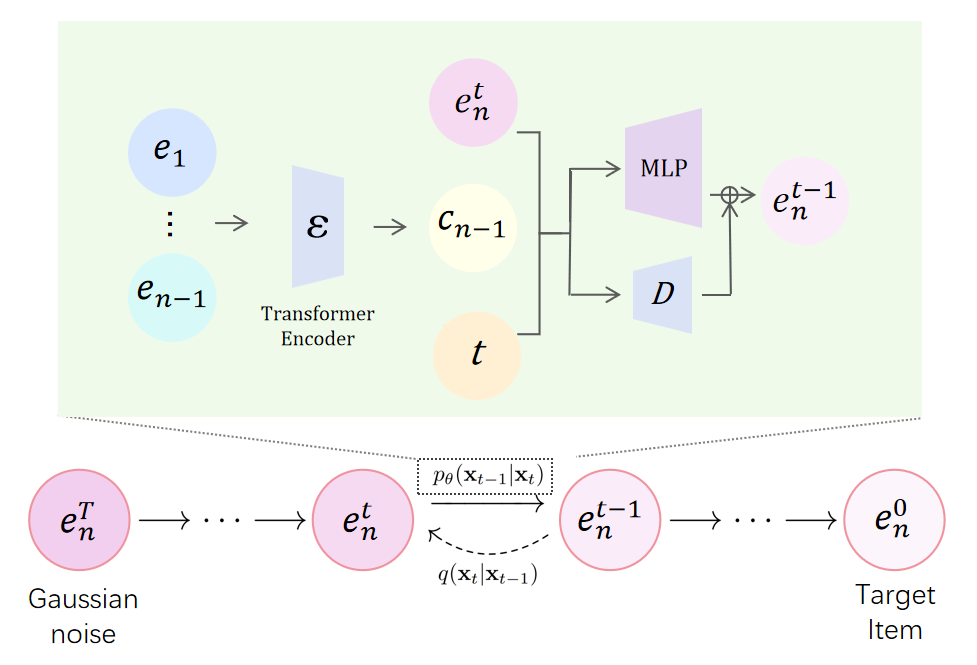
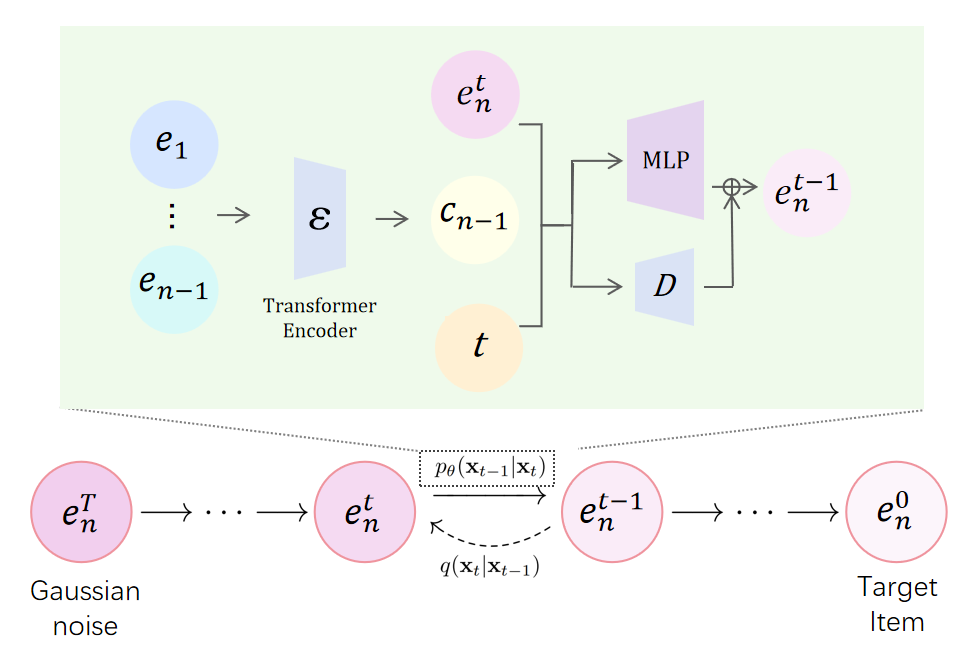
newphoto

diff --git a/app/page.tsx b/app/page.tsx
@@ -120,7 +120,7 @@ const publications = [
     type: "Oral",
     title: "ReconNet: Generative Recommendation with Control-Guided Diffusion Models",
     authors: "Yujia Zeng",
-    image: "/reconnet1.png",
+    image: "/reconnet.png",
     description:
       "This work reformulates sequential recommendation as a control-guided diffusion generation task, allowing user preferences across multiple domains to act as control signals that guide personalized recommendation item generation.",
   },
@@ -148,7 +148,7 @@ function PublicationSection() {
             key={paper.title}
             className="grid grid-cols-1 gap-7 rounded-[28px] border border-[#eed4de] bg-[#fffafc]/80 p-5 shadow-[0_10px_30px_rgba(191,113,142,0.12)] transition duration-300 hover:-translate-y-1 hover:shadow-[0_18px_44px_rgba(191,113,142,0.18)] md:grid-cols-[390px_1fr] md:p-6"
           >
-            <div className="group/image relative aspect-[800/480] overflow-hidden rounded-[22px] border border-[#ead5dd] bg-white shadow-[0_10px_26px_rgba(178,109,143,0.14)] transition-all duration-300 ease-out hover:-translate-y-3 hover:shadow-[0_22px_45px_rgba(191,113,142,0.24)]">
+            <div className="group/image relative aspect-[800/490] overflow-hidden rounded-[22px] border border-[#ead5dd] bg-white shadow-[0_10px_26px_rgba(178,109,143,0.14)] transition-all duration-300 ease-out hover:-translate-y-3 hover:shadow-[0_22px_45px_rgba(191,113,142,0.24)]">
               <div className="absolute left-0 top-0 z-10 rounded-br-xl bg-[#0b4cae] px-4 py-1.5 text-sm font-semibold text-white shadow-md">
                 {paper.venue}
               </div>